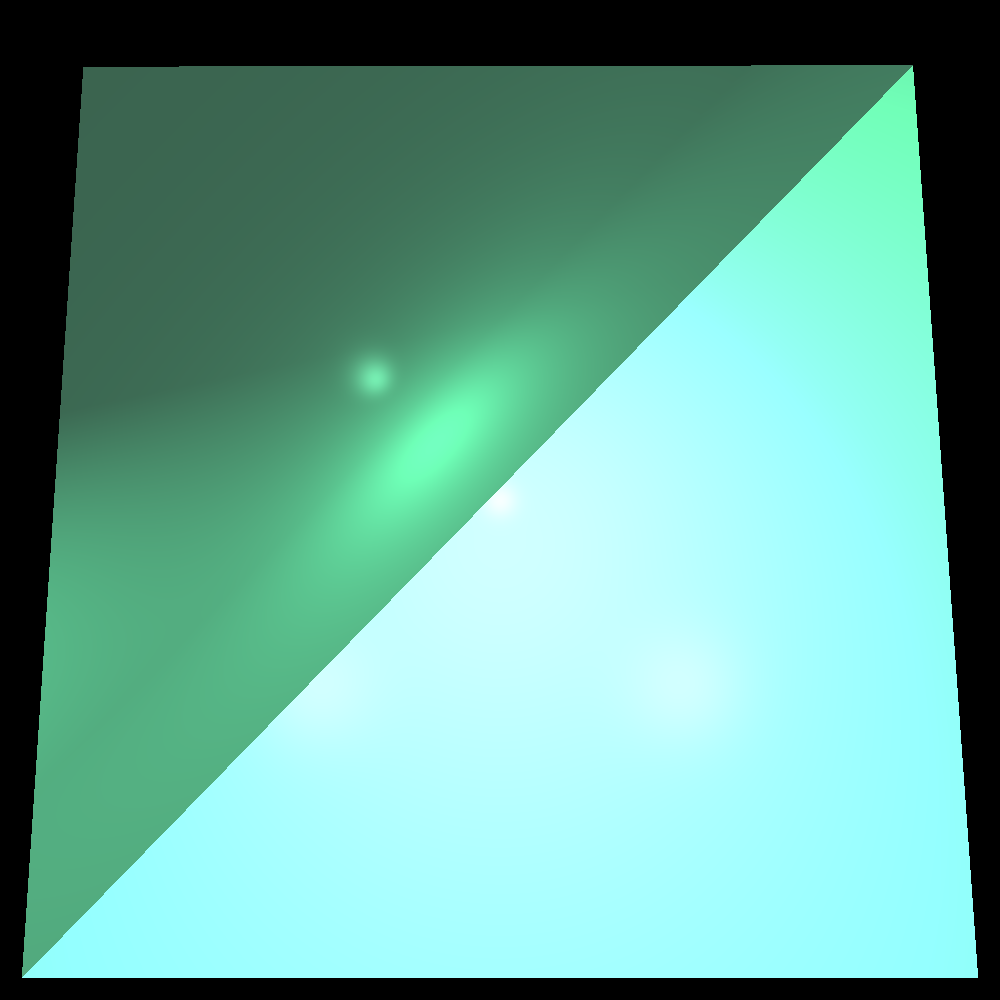
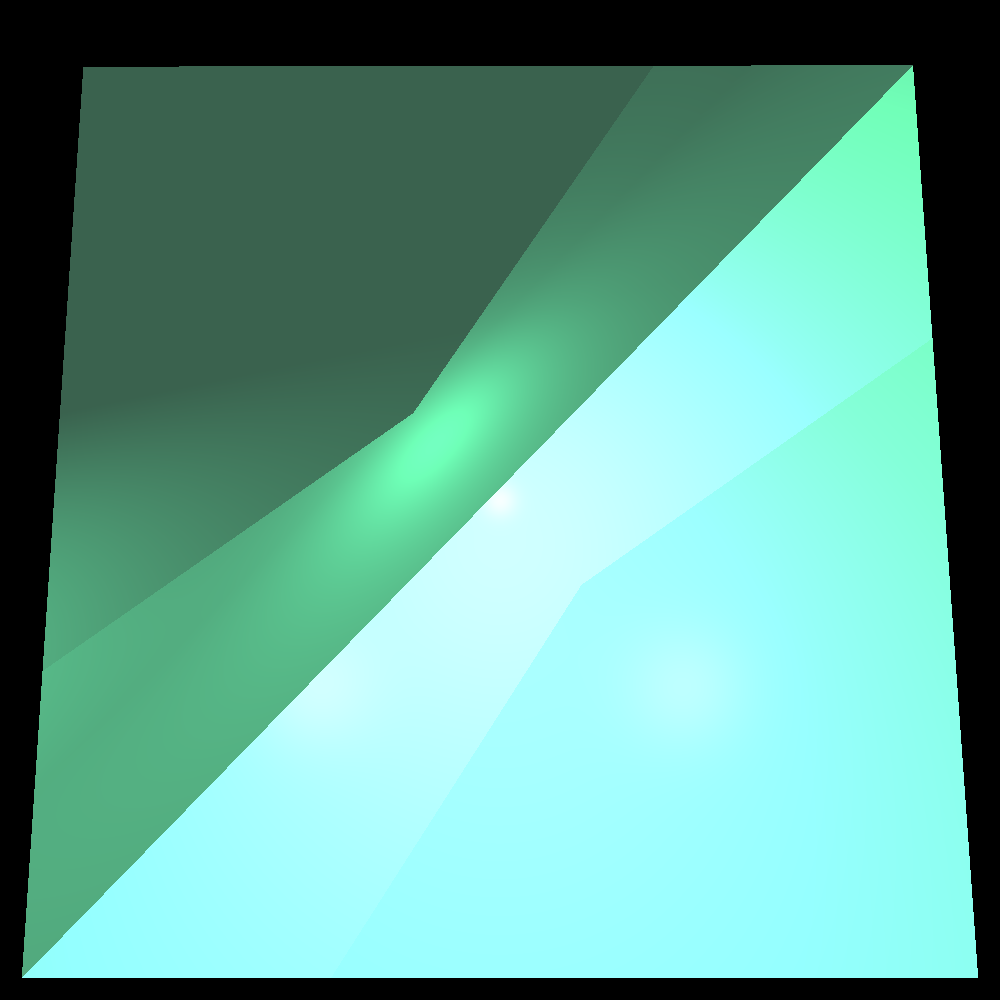
second step stage 7

Changed region(s): [[0.155, 0.155, 0.589, 0.589], [0.496, 0.496, 0.713, 0.713], [0.775, 0.372, 0.899, 0.558]]

diff --git a/src/renderer/RayTracerBasic.java b/src/renderer/RayTracerBasic.java
@@ -8,6 +8,7 @@ import scene.Scene;
 import java.util.List;
 
 import static primitives.Util.alignZero;
+import static primitives.Util.isZero;
 
 /**
  * This class implements a basic ray tracer algorithm for rendering images.
@@ -23,6 +24,21 @@ public class RayTracerBasic extends RayTracerBase {
      * Constant for head of ray offset size for shading rays
      */
     private static final double DELTA = 0.1;
+
+    /**
+     * The maximum level of color calculation recursion.
+     * Higher values allow for more accurate shading but increase computation time.
+     */
+    private static final int MAX_CALC_COLOR_LEVEL = 10;
+
+    /**
+     * The minimum value of the reflection/refraction coefficient for color calculation recursion termination.
+     * When the reflection/refraction coefficient is below this threshold, the recursion terminates.
+     * This helps to prevent infinite recursion and artifacts.
+     */
+    private static final double MIN_CALC_COLOR_K = 0.001;
+
+    private static  final  Double3 INITIAL_K = Double3.ONE;
 
     //-----------------------------constructor-------------------------
 
@@ -72,8 +88,13 @@ public class RayTracerBasic extends RayTracerBase {
 
             // Check if any intersection point is closer to the light source than the current point
             for (GeoPoint intersectionPoint : intersections) {
+                if(intersectionPoint.geometry.getMaterial().kT.lowerThan(MIN_CALC_COLOR_K) ||
+                        lightSource.getDistance(gp.point) > point.distance(intersectionPoint.point))
+                    return false;
+                /*
                 if (lightSource.getDistance(gp.point) > point.distance(intersectionPoint.point))
                     return false;
+                 */
             }
 
             // If no closer intersection found, the point is unshaded
@@ -93,6 +114,7 @@ public class RayTracerBasic extends RayTracerBase {
      * @param ray   The ray that intersected with the geometry
      * @return The color at the intersection point
      */
+    /**
     private Color calcColor(GeoPoint point, Ray ray) {
         // Calculate the color using ambient light and local effects
         // Start by getting the intensity of the ambient light from the scene's ambient light source
@@ -106,6 +128,28 @@ public class RayTracerBasic extends RayTracerBase {
 
         // Return the calculated color
         return color;
+    }
+
+     */
+
+/*
+    private Color calcColor(GeoPoint gp, Ray ray, int level, Double3 k) {
+        Color color = scene.ambientLight.getIntensity()
+                .add(calcLocalEffects(gp, ray));
+        return 1 == level ? color : color.add(calcGlobalEffects(gp, ray, level, k));
+    }
+
+ */
+
+    private Color calcColor(GeoPoint intersection, Ray ray, int level, Double3 k) {
+        Color color = calcLocalEffects(intersection, ray);
+        return 1 == level ? color
+                : color.add(calcGlobalEffects(intersection, ray, level, k));}
+
+
+    private Color calcColor(GeoPoint geopoint, Ray ray) {
+        return calcColor(geopoint, ray, MAX_CALC_COLOR_LEVEL, INITIAL_K)
+                .add(scene.ambientLight.getIntensity());
     }
 
     /**
@@ -150,6 +194,23 @@ public class RayTracerBasic extends RayTracerBase {
         }
         return color;
     }
+
+    private Color calcGlobalEffect(Ray ray, int level, Double3 k, Double3 kx) {
+        Double3 kkx = k.product(kx);
+        if (kkx.lowerThan(MIN_CALC_COLOR_K)) return Color.BLACK;
+        GeoPoint gp = findClosestIntersection(ray);
+        if (gp == null) return scene.background.scale(kx);
+        return isZero(gp.geometry.getNormal(gp.point).dotProduct(ray.getDir()))? Color.BLACK :
+                calcColor(gp, ray, (level-1), kkx);
+    }
+
+    private Color calcGlobalEffects(GeoPoint gp, Ray ray, int level, Double3 k) {
+        Color color = Color.BLACK;
+        Vector v = ray.getDir();
+        Vector n = gp.geometry.getNormal(gp.point);
+        Material material = gp.geometry.getMaterial();
+        return calcGlobalEffect(constructReflectedRay(gp.point, v, n),level, k, material.kR)
+                .add(calcGlobalEffect(constructRefractedRay(gp.point, v, n),level, k, material.kT));}
 
     /**
      * Calculates the specular reflection color at a given intersection point.
@@ -196,15 +257,97 @@ public class RayTracerBasic extends RayTracerBase {
         return diffuseColor;
     }
 
+
+    /**
+     * Constructs a refracted ray based on the given point, incident vector, and surface normal.
+     *
+     * @param point The point of intersection.
+     * @param v     The incident vector.
+     * @param n     The surface normal.
+     * @return The refracted ray.
+     */
+    private Ray constructRefractedRay(Point point, Vector v, Vector n) {
+
+        double nv = alignZero(v.dotProduct(n.normalize()));
+
+        // Compute the scaled offset vector to prevent self-intersections and shadow acne.
+        // The offset is computed as the incident vector scaled by the DELTA constant.
+        Vector delta = v.scale(DELTA);
+
+        // If the dot product of v and the normalized surface normal is negative,
+        // reverse the direction of the offset vector to ensure it points inside the object.
+        if (nv < 0)
+            delta = delta.scale(-1);
+
+        // Compute the refracted ray direction as the normalized surface normal.
+        Vector refractedDirection = n.normalize();
+
+        // Create a new ray with the refracted direction starting from the given point with the offset applied.
+        return new Ray(point.add(delta), refractedDirection);
+
+    }
+
+
+    /**
+     * Constructs a reflected ray based on the given point, incident vector, and surface normal.
+     *
+     * @param pointGeo The point of intersection.
+     * @param v        The incident vector.
+     * @param n        The surface normal.
+     * @return The reflected ray.
+     */
+    private Ray constructReflectedRay(Point pointGeo, Vector v, Vector n) {
+        //r = v - 2.(v.n).n
+        double vn = alignZero(v.dotProduct(n));
+
+        // If the dot product of v and n is zero, the incident vector is parallel to the surface normal,
+        // resulting in no reflection. Return null in this case.
+        if (vn == 0) {
+            return null;
+        }
+
+        // Calculate the reflection direction using the formula: r = v - 2 * (v dot n) * n
+        Vector r = v.subtract(n.scale(2 * vn));
+
+        // Create a new ray with the reflected direction starting from the given point.
+        return new Ray(pointGeo, r);
+    }
+
+
+    /**
+     * Finds the closest intersection point between the given ray and the geometries in the scene.
+     *
+     * @param ray The ray for which to find the closest intersection.
+     * @return The closest intersection point, or null if no intersection is found.
+     */
+    private GeoPoint findClosestIntersection(Ray ray) {
+
+        // Find all intersections between the ray and the geometries in the scene.
+        List<GeoPoint> intersections = scene.geometries.findGeoIntersections(ray);
+
+        // If there are no intersections, return null to indicate no intersection found.
+        if (intersections == null) {
+            return null;
+        }
+
+        // Find the closest intersection point from the ray's origin among all the intersections.
+        return ray.findClosestGeoPoint(intersections);
+    }
+
+
+
     //---------------------------override functions-------------------------
 
     @Override
     public Color traceRay(Ray ray) {
-        List<GeoPoint> points = scene.geometries.findGeoIntersections(ray); // Find intersections between the ray and geometries in the scene
+        // Find the closest intersections between the ray and geometries in the scene
+        GeoPoint point  = this.findClosestIntersection(ray);
 
-        if (points == null)
-            return scene.background; // If no intersections are found, return the background color of the scene
+        // If no intersections are found, return the background color of the scene
+        if (point == null)
+            return scene.background;
 
-        return calcColor(ray.findClosestGeoPoint(points), ray); // Calculate the color at the closest intersection point
+        // Calculate the color at the closest intersection point
+        return calcColor(point, ray);
     }
 }

diff --git a/src/primitives/Material.java b/src/primitives/Material.java
@@ -13,10 +13,24 @@ public class Material {
     //----------------------------fields--------------------------
 
     /**
-     * The specular reflection coefficient of the material.
+     * The diffuse reflection coefficient of the material.
      */
     public Double3 kD = Double3.ZERO;
+
+    /**
+     * The specular reflection coefficient of the material.
+     */
     public Double3 kS = Double3.ZERO;
+
+    /**
+     * The transmission coefficient of the material.
+     */
+    public Double3 kT = Double3.ZERO;
+
+    /**
+     * The reflection coefficient of the material.
+     */
+    public Double3 kR = Double3.ZERO;
 
     /**
      * The shininess exponent of the material.
@@ -25,6 +39,56 @@ public class Material {
 
 
     //--------------------------------Setters----------------------------
+
+    /**
+     * Sets the transmission coefficient of the material.
+     *
+     * @param kT The new transmission coefficient.
+     * @return This material object, with the updated changes.
+     */
+    public Material setkT(Double3 kT) {
+        this.kT = kT;
+        return this;
+    }
+
+    /**
+     * Sets the reflection coefficient of the material.
+     *
+     * @param kR The new reflection coefficient.
+     * @return This material object, with the updated changes.
+     */
+    public Material setkR(Double3 kR) {
+        this.kR = kR;
+        return this;
+
+    }
+
+
+    /**
+     * Sets the transmission coefficient of the material.
+     *
+     * @param kT The new transmission coefficient.
+     * @return This material object, with the updated changes.
+     */
+    public Material setkT(double kT) {
+        this.kT = new Double3(kT);
+        return this;
+
+    }
+
+
+    /**
+     * Sets the reflection coefficient of the material.
+     *
+     * @param kR The new reflection coefficient.
+     * @return This material object, with the updated changes.
+     */
+    public Material setkR(double kR) {
+        this.kR = new Double3(kR);
+        return this;
+
+    }
+
 
     /**
      * Sets the diffuse reflection coefficient of the material.
